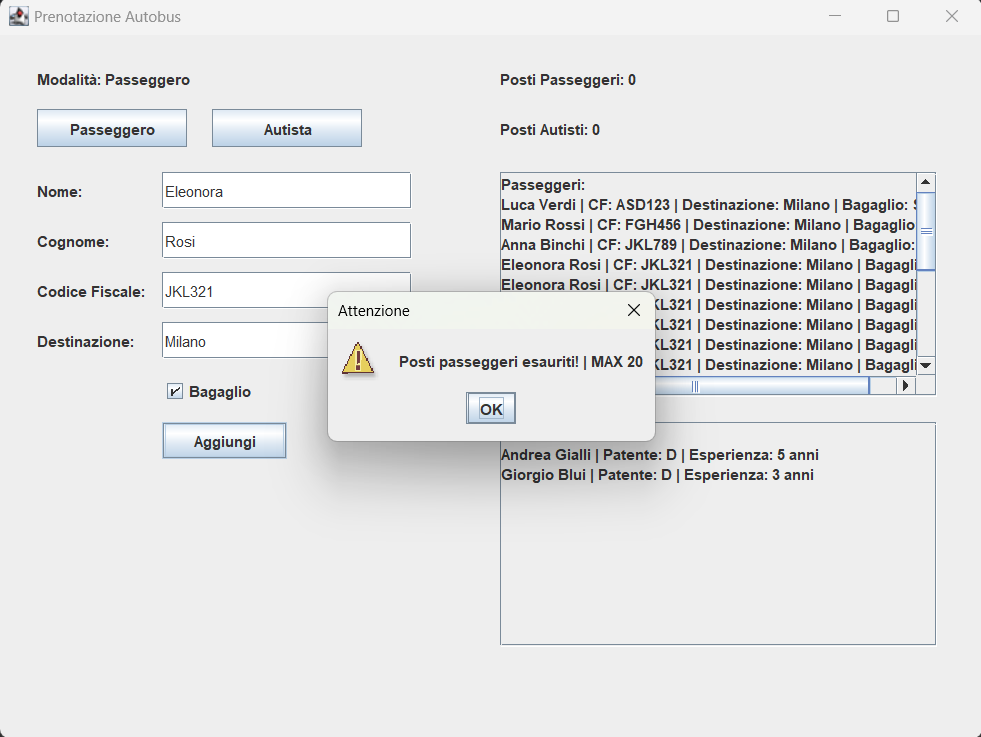
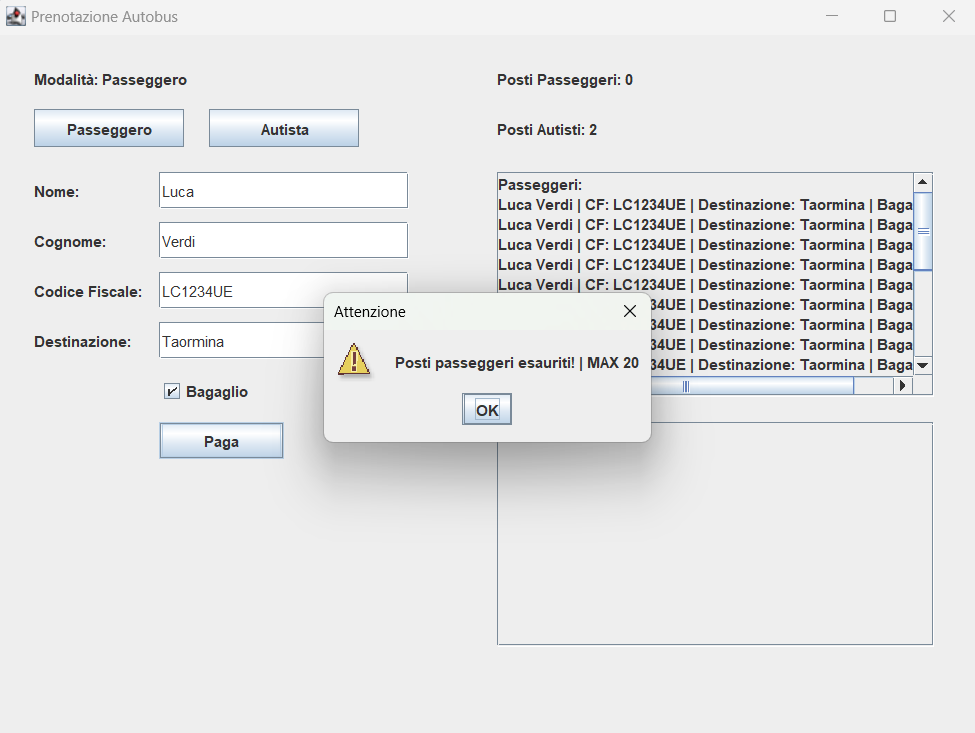
aggiornamento esercizi

diff --git a/Lezione_9/src/prenotazione_autobus/Main.java b/Lezione_9/src/prenotazione_autobus/Main.java
@@ -117,6 +117,7 @@ public class Main {
         btnPasseggero.addActionListener(e -> {
             modalitaPasseggero[0] = true;
             lblModalita.setText("Modalità: Passeggero");
+            btnAggiungi.setText("Paga");
             lblCF.setVisible(true);
             txtCF.setVisible(true);
             lblDestinazione.setVisible(true);
@@ -131,6 +132,7 @@ public class Main {
         btnAutista.addActionListener(e -> {
             modalitaPasseggero[0] = false;
             lblModalita.setText("Modalità: Autista");
+            btnAggiungi.setText("Aggiungi");
             lblCF.setVisible(false);
             txtCF.setVisible(false);
             lblDestinazione.setVisible(false);
